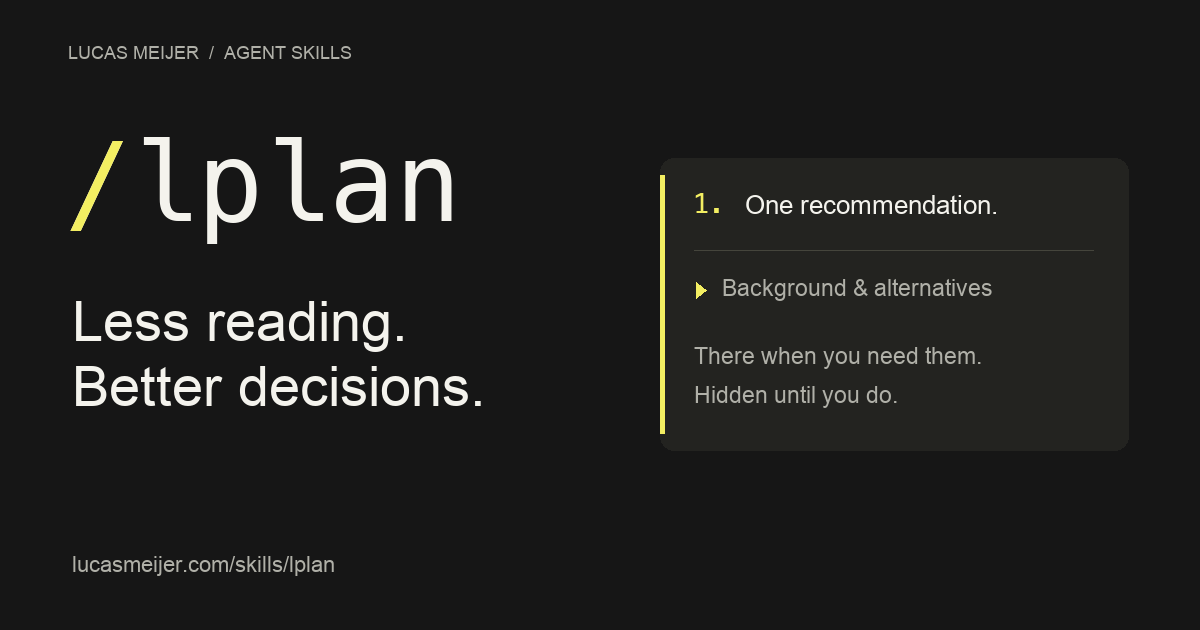
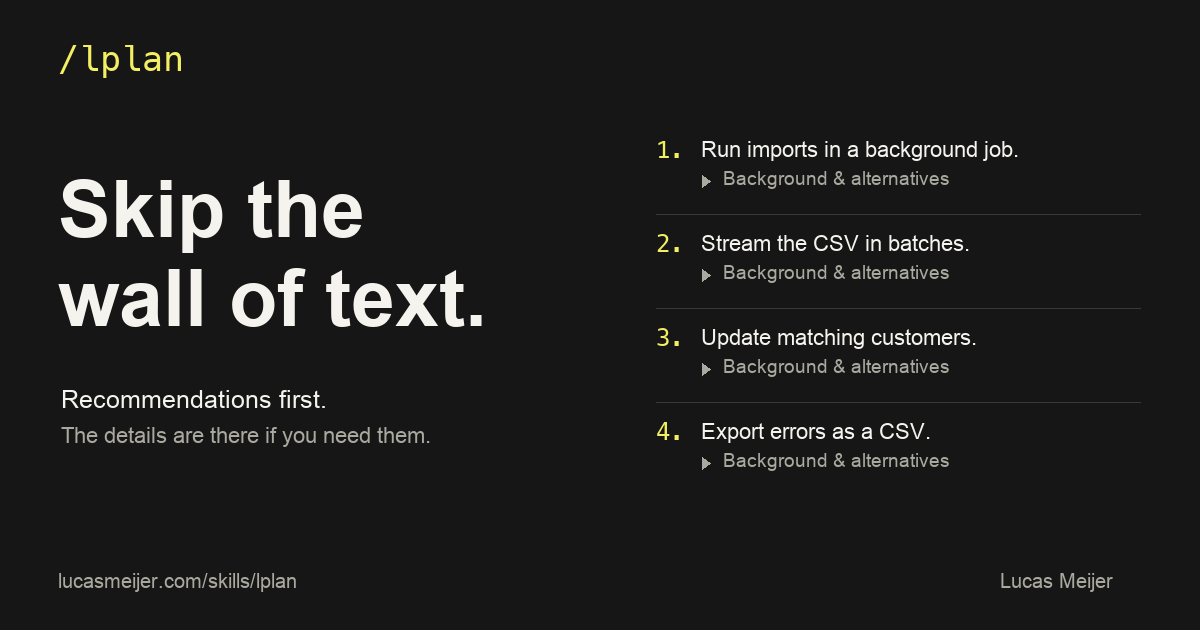
Use Skip the wall of text as the lplan social card

diff --git a/skills/lplan/index.html b/skills/lplan/index.html
@@ -8,19 +8,19 @@
   <link rel="canonical" href="https://lucasmeijer.com/skills/lplan/">
   <meta property="og:type" content="website">
   <meta property="og:url" content="https://lucasmeijer.com/skills/lplan/">
-  <meta property="og:title" content="/lplan — Less reading. Better decisions.">
+  <meta property="og:title" content="/lplan — Skip the wall of text.">
   <meta property="og:description" content="One recommendation. Rationale and alternatives in a foldout. An agent skill by Lucas Meijer.">
-  <meta property="og:image" content="https://lucasmeijer.com/skills/lplan/social-card.png">
+  <meta property="og:image" content="https://lucasmeijer.com/skills/lplan/social-card.png?v=2">
   <meta property="og:image:width" content="1200">
   <meta property="og:image:height" content="630">
-  <meta property="og:image:alt" content="/lplan. Less reading. Better decisions. A numbered recommendation with its background tucked into a foldout.">
+  <meta property="og:image:alt" content="/lplan. Skip the wall of text. Four short engineering recommendations with background and alternatives in closed foldouts.">
   <meta name="twitter:card" content="summary_large_image">
   <meta name="twitter:site" content="@lucasmeijer">
   <meta name="twitter:creator" content="@lucasmeijer">
-  <meta name="twitter:title" content="/lplan — Less reading. Better decisions.">
+  <meta name="twitter:title" content="/lplan — Skip the wall of text.">
   <meta name="twitter:description" content="One recommendation. Rationale and alternatives in a foldout. An agent skill by Lucas Meijer.">
-  <meta name="twitter:image" content="https://lucasmeijer.com/skills/lplan/social-card.png">
-  <meta name="twitter:image:alt" content="/lplan. Less reading. Better decisions.">
+  <meta name="twitter:image" content="https://lucasmeijer.com/skills/lplan/social-card.png?v=2">
+  <meta name="twitter:image:alt" content="/lplan. Skip the wall of text. Four short recommendations with closed background foldouts.">
   <link rel="icon" href="/favicon.ico">
   <link rel="stylesheet" href="styles.css?v=5">
 </head>
